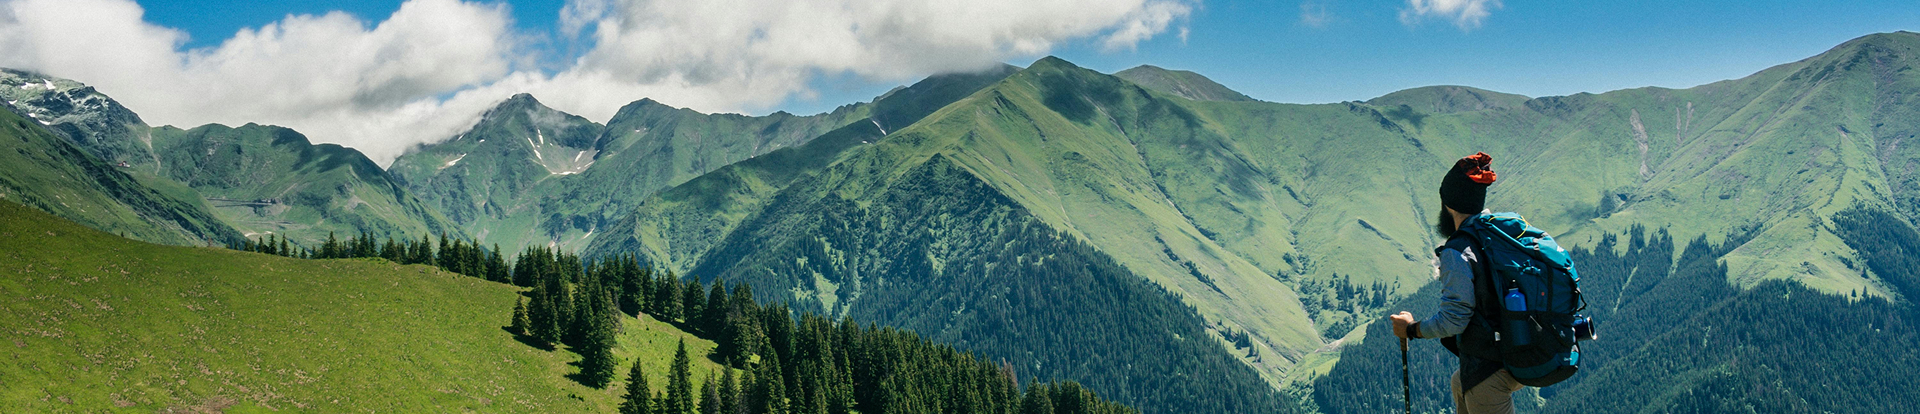
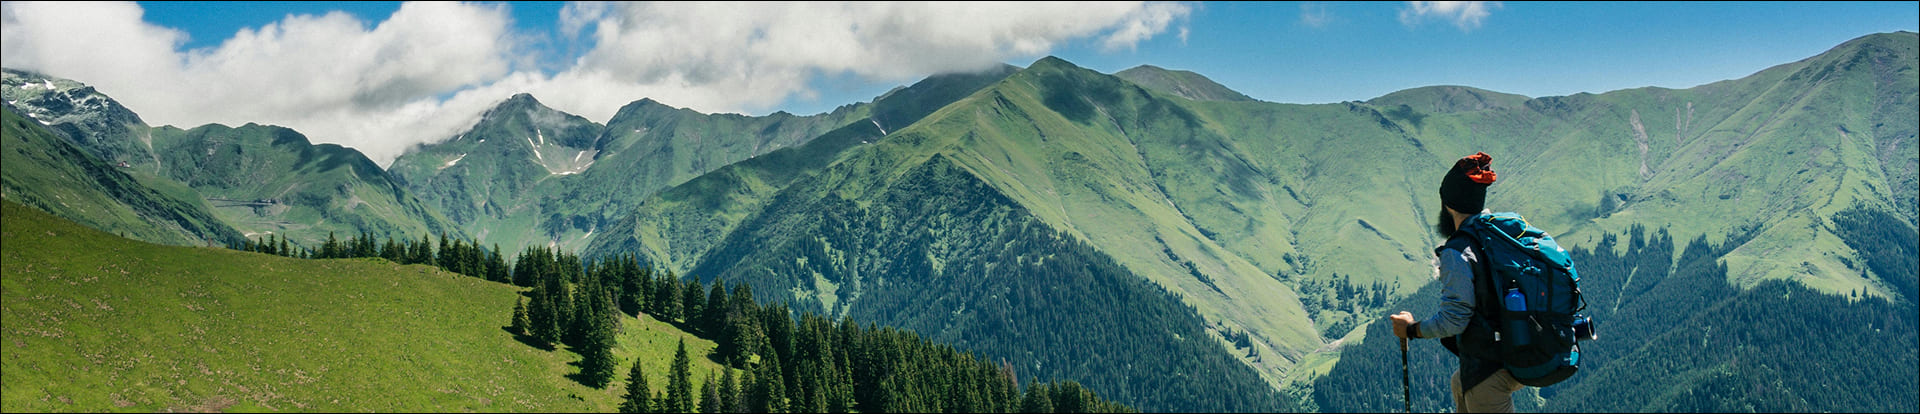
feat:  -activity-card.vue  新增活動卡片元件          -activity.vue 新增活動列表卡片區塊
data: -fake-activity.js 新增活動假資料

Changed region(s): [[0.5625, 0.9855, 1.0, 1.0], [0.0, 0.9855, 0.4375, 1.0], [0.4688, 0.9855, 0.5312, 1.0]]

diff --git a/src/views/activity/activity.vue b/src/views/activity/activity.vue
@@ -1,11 +1,37 @@
 <script setup>
 import ActivityCard from "@/components/activity/activity-card.vue";
 import { FakeActivity } from "@/assets/data/fake-activity";
+import Button from "@/components/Button.vue";
+import AvartarIcon from "@/assets/img/icon/avatar.svg";
+import { ref } from "vue";
+const text = ref("");
+const selected = ref(1);
 </script>
 
 <template>
-  <div class="banner"></div>
+  <div class="hint">揪團探索/揪團列表</div>
+  <div class="container">
+    <div class="banner"></div>
+  </div>
 
+  <div class="search-bar-container">
+    <div class="search-bar">
+      <input v-model="text" />
+    </div>
+    <div class="calendar">
+      <input type="date" />
+    </div>
+    <div class="participants">
+      <img :src="AvartarIcon" alt="" class="icon" />
+
+      <select v-model="selected">
+        <option v-for="n in 10" :key="n">{{ n }}</option>
+      </select>
+    </div>
+    <div class="button-go">
+      <Button isFull theme="primary" size="sm">GO</Button>
+    </div>
+  </div>
   <div class="activity-list">
     <RouterLink
       v-for="item in FakeActivity"
@@ -19,15 +45,23 @@ import { FakeActivity } from "@/assets/data/fake-activity";
 </template>
 
 <style scoped lang="scss">
+.container {
+  margin: 0 auto;
+  width: 100%;
+}
 .banner {
-  max-width: 100%;
+  display: flex;
   background-position: center;
   border: 1px solid black;
-  width: 100%;
-  min-height: 414px;
+  width: 100vw;
+
   background-image: url(../../assets/img/activity/activity-banner.jpg);
+  background-size: contain;
+  background-repeat: no-repeat;
   @include mobile() {
     min-height: 212px;
+    background-position: left;
+    background-size: cover;
   }
 
   @include tablet() {
@@ -58,6 +92,36 @@ import { FakeActivity } from "@/assets/data/fake-activity";
     grid-template-columns: repeat(4, 1fr);
 
     justify-self: center;
+  }
+}
+
+.hint {
+  line-height: 27px;
+  margin: 29px auto 11px 18px;
+  @include mobile() {
+  }
+
+  @include tablet() {
+  }
+  @include desktop() {
+    display: none;
+    font-size: $font-size-p;
+  }
+}
+.search-bar-container {
+  display: grid;
+}
+.search-bar {
+}
+.search-bar input {
+  width: 100%;
+  @include mobile() {
+  }
+
+  @include tablet() {
+  }
+
+  @include desktop() {
   }
 }
 </style>

diff --git a/src/components/activity/activity-card.vue b/src/components/activity/activity-card.vue
@@ -24,11 +24,13 @@ const aloha = () => {
     </div>
     <h4 class="activity-title">{{ item.title }}</h4>
     <p class="activity-intro">{{ item.intro }}</p>
-    <div class="button">
-      <Button :onClick="aloha" theme="primary" size="md">我要跟團!</Button>
+    <div class="button" @click.stop.prevent>
+      <Button @click.stop.prevent="aloha" theme="primary" size="md"
+        >我要跟團!</Button
+      >
       <LikeButton
         :isActive="likeMap[item.activity_id]"
-        onClick.stop.prevent="toggleLike(item.activity_id)"
+        @click.stop.prevent="toggleLike(item.activity_id)"
       ></LikeButton>
     </div>
   </div>
@@ -42,6 +44,7 @@ const aloha = () => {
   flex-direction: column;
   padding: 5px;
   min-height: 390px;
+  color: black;
 }
 .activity-img img {
   width: 100%;
@@ -64,12 +67,15 @@ const aloha = () => {
   overflow: hidden;
   white-space: nowrap;
   text-overflow: ellipsis;
+  font-weight: unset;
 }
 .activity-intro {
   font-size: $font-size-p;
   padding: 10px 0 0;
   line-height: 1.7;
   flex-grow: 1;
+  overflow: hidden;
+  text-overflow: ellipsis;
 }
 
 .button {

diff --git a/src/components/activity/like-button.vue b/src/components/activity/like-button.vue
@@ -2,11 +2,6 @@
 import HeartOutlineIcon from "@/assets/img/icon/heart_outline.svg";
 import HeartFilled from "@/assets/img/icon/heart_filled.svg";
 const props = defineProps({
-  icon: {
-    type: Object,
-    required: true,
-  },
-
   isActive: {
     type: Boolean,
     default: false,

diff --git a/src/components/Button.vue b/src/components/Button.vue
@@ -235,5 +235,6 @@ $buttonSizes: (
 
 .button[data-is-full="true"] {
   width: 100%;
+  border: 2px solid black;
 }
 </style>
